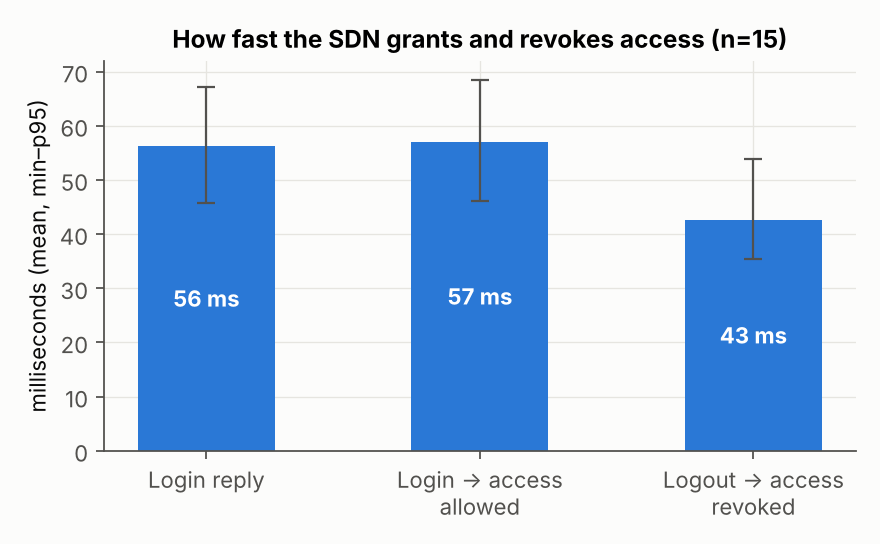
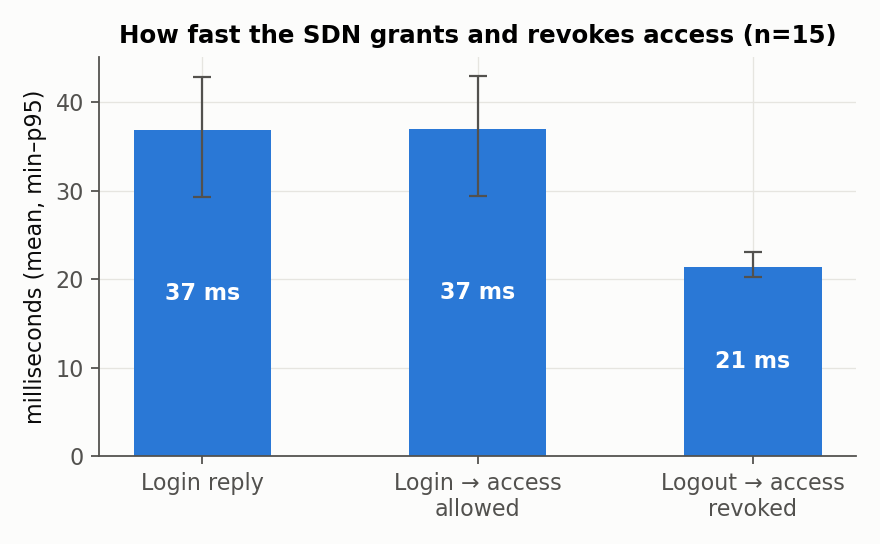
D2: performance results from VM

diff --git a/results/summary.md b/results/summary.md
@@ -1,7 +1,7 @@
 | Metric | With SDN access control | Without (baseline) |
 |---|---|---|
-| Unauthenticated host throughput | 0.00 Mbit/s (blocked) | 912 Mbit/s (open) |
-| Authorized throughput (staff) | 811 Mbit/s | 883 Mbit/s |
-| Time before first packet allowed | 57 ms (login + rule install) | 2.0 ms (no login) |
-| Revocation time | 43 ms | not possible |
-| Guest bandwidth limit | 0.46 Mbit/s | none |
+| Unauthenticated host throughput | 0.00 Mbit/s (blocked) | 112588 Mbit/s (open) |
+| Authorized throughput (staff) | 105944 Mbit/s | 112499 Mbit/s |
+| Time before first packet allowed | 37 ms (login + rule install) | 0.4 ms (no login) |
+| Revocation time | 21 ms | not possible |
+| Guest bandwidth limit | 0.45 Mbit/s | none |
